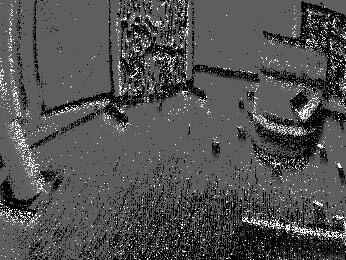
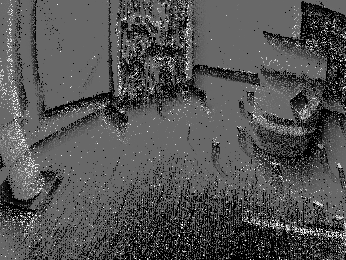
refresh backup slides with post pre-defense figures

diff --git a/backup.tex b/backup.tex
@@ -1369,27 +1369,27 @@ For a unit vector $\mathbf e$: if $\mathbf e\cdot\vct^*\le M$ on $\Gamma$, test 
 \begin{frame}{What can changes tell us about a scene?}
 \begin{columns}[T]
 \column{.30\textwidth}
-\centering\includegraphics[width=\linewidth,height=2.6cm,keepaspectratio]{figures/mvsec_outdoor_day1/defense_matched/reference.png}\par\vspace{1mm}
+\centering\includegraphics[width=\linewidth,height=2.6cm,keepaspectratio]{figures/mvsec_outdoor_day1/backup_p1/reference.png}\par\vspace{1mm}
 {\small\textbf{Reference image}}
 \column{.30\textwidth}
-\centering\includegraphics[width=\linewidth,height=2.6cm,keepaspectratio]{figures/mvsec_outdoor_day1/defense_matched/events_accumulation_orange_positive.png}\par\vspace{1mm}
+\centering\includegraphics[width=\linewidth,height=2.6cm,keepaspectratio]{figures/mvsec_outdoor_day1/backup_p1/events_accumulation_orange_positive.png}\par\vspace{1mm}
 {\small\textbf{Accumulated events}}\par
-% source: figures/mvsec_outdoor_day1/defense_matched/metadata.json, display_event_window_duration_s and accumulation_rule.
+% source: figures/mvsec_outdoor_day1/backup_p1/metadata.json, event_panel (50 ms window ending at the frame time; color rule).
 {\scriptsize $50$\,ms sample}\par
 {\scriptsize\textcolor[RGB]{204,76,31}{Orange $+$}; \textcolor[RGB]{0,118,160}{blue $-$}; \textcolor[RGB]{119,70,151}{purple: both}.}
 \column{.035\textwidth}
 \vspace{1.1cm}\centering\textcolor{teal}{$\rightarrow$}
 \column{.30\textwidth}
-\centering\includegraphics[width=\linewidth,height=2.6cm,keepaspectratio]{figures/mvsec_outdoor_day1/defense_matched/reconstruction.png}\par\vspace{1mm}
+\centering\includegraphics[width=\linewidth,height=2.6cm,keepaspectratio]{figures/mvsec_outdoor_day1/backup_p1/reconstruction.png}\par\vspace{1mm}
 {\small\textbf{Our reconstruction}}
 \end{columns}
 \vspace{3mm}
 {\large What do the observations determine, and what does the model supply?\par}
 \takeaway{The observations constrain changes; the model supplies the remaining choices.}
-% source detail: Ch. 2 saved outdoor_day1 release; reference.png, events_accumulation_orange_positive.png, and reconstruction.png under figures/mvsec_outdoor_day1/defense_matched/.
-% source: figures/mvsec_outdoor_day1/defense_matched/metadata.json, exact timing, raw-left geometry, normalization, and hashes.
+% source detail: Ch. 2 configuration P1 (Gaussian 5 ms, sigmoid), /scratch/dblauvel/ch2_recompute_20261103_p60/P1_gaussian_sigmoid_sqrt_0.03_n100/outdoor_day1, latent frame 29 of 100; exporter monocular_reconstruction/artifacts/defense_figures_20261108/export_backups.py.
+% source: figures/mvsec_outdoor_day1/backup_p1/metadata.json, exact timing, raw-left geometry, normalization, and hashes.
 \src{\dref{Chapter}{ch:monocular_reconstruction}, saved MVSEC~\cite{MVSEC2018} outdoor\_day1 reconstruction example.}
-\talknote{Motivation; about 60 seconds.}{Left is a conventional reference image of the outdoor scene. Center is a 50 ms sample of the event measurements used by the reconstruction: orange marks positive-only pixels, blue negative-only pixels, and purple pixels with both polarities. Right is our event-derived reconstruction, using a longer observation interval. The arrow represents events feeding the estimator; the reference supplies visual context. Events determine temporal changes, and the model selects a brightness baseline and how to balance observations with regularization.}{All panels use the raw left DAVIS geometry, $346\times260$ pixels. The 50 ms display interval ends at reconstruction time 1506118045.9162312 s and contains 23,780 events. The nearest reference is 4.672 ms later. Reconstruction uses the full 500,000-event input spanning about 0.846 s; the center panel displays a subset of that input. Event color strength is logarithmic in count and saturates at four events per pixel. The reference uses a sequence-wide min/max mapping; reconstruction uses one affine mapping across its 20-frame sequence, then clips to $[0,1]$. This displays a latent event-derived state. The dissertation asks what observations determine, what penalties select, and what guarantees survive spatial or binocular coupling.}
+\talknote{Motivation; about 60 seconds.}{Left is a conventional reference image of the outdoor scene. Center is a 50 ms sample of the event measurements used by the reconstruction: orange marks positive-only pixels, blue negative-only pixels, and purple pixels with both polarities. Right is our event-derived reconstruction with the selected Chapter 2 configuration, using a longer observation interval. The arrow represents events feeding the estimator; the reference supplies visual context. Events determine temporal changes, and the model selects a brightness baseline and how to balance observations with regularization.}{All panels use the raw left DAVIS geometry, $346\times260$ pixels. The 50 ms display interval ends at reconstruction time 1506118049.4719 s and contains 23,742 events. The reference is the nearest camera frame, 6.4 ms later. Reconstruction uses the full 500,000-event input spanning about 0.95 s; the center panel displays a subset of that input. Event color strength is logarithmic in count and saturates at four events per pixel. The reference is the saved 8-bit frame, unchanged; the reconstruction uses one affine mapping across its 100-frame sequence, background to mid-gray, then clips to $[0,1]$. This displays a latent event-derived state. The dissertation asks what observations determine, what penalties select, and what guarantees survive spatial or binocular coupling.}
 \end{frame}
 
 \begin{frame}{Where this work fits}
@@ -1486,9 +1486,9 @@ Quiet intervals get the largest weights and set the reference level; busy interv
 \begin{columns}[c]
 \column{.55\textwidth}
 \small MVSEC~\cite{MVSEC2018} indoor flying 2\par\medskip
-% source: source_reconstruction_h5: /scratch/dblauvel/ch2_mvsec_release_20261018/indoor_flying2_bump_05/reconstruction.h5, source_reference_npz: /scratch/dblauvel/ch2_mvsec_release_20261018/reference/indoor_flying2.npz
-\panel{.48}{figures/reconstruction_evaluation/reference.png}{Reference}
-\hfill\panel{.48}{figures/reconstruction_evaluation/event_only_reconstruction.png}{Event-only reconstruction}
+% source: /scratch/dblauvel/ch2_recompute_20261103_p60/P1_gaussian_sigmoid_sqrt_0.03_n100/indoor_flying2/lambda_comparison/{lambda_comparison_results.mat (reconstructions_raw, sigmoid), ground_truth_aligned/aligned_frames.mat}, latent frame 21; exporter monocular_reconstruction/artifacts/defense_figures_20261108/export_backups.py.
+\panel{.48}{figures/reconstruction_evaluation_p1/reference.png}{Reference}
+\hfill\panel{.48}{figures/reconstruction_evaluation_p1/reconstruction.png}{Event-only reconstruction}
 \column{.42\textwidth}
 \small MVSEC indoor aggregate results\par\medskip
 \begin{tabular}{lrr}\toprule Kernel & PSNR & CN\\\midrule
@@ -1502,10 +1502,10 @@ Gaussian & 8.68 & 259.79\\\bottomrule
 {\scriptsize PSNR compares with a reference frame, so it also scores the absolute brightness that the model selects; the events constrain only changes.\par}
 \end{columns}
 \takeaway{Kernel and adaptive-weight choices affect both the reconstruction and the solved system.}
-% source detail: Ch. 2, tab:bump\_avg\_indoor; images from figures/reconstruction\_evaluation/metadata.json (indoor\_flying2, solved frame 81 of 100).
+% source detail: Ch. 2, tab:bump\_avg\_indoor; images from figures/reconstruction\_evaluation\_p1/metadata.json (indoor\_flying2, configuration P1, latent frame 21 of 100).
 \src{\dref{Table}{tab:bump_avg_indoor}; images: MVSEC indoor flying 2, Ch.~2.}
-% source: Ch. 2 tab:bump_avg_indoor; figures/reconstruction_evaluation/metadata.json, indoor_flying2_bump_05, nearest saved camera frame.
-\talknote{Temporal results; 60 seconds.}{The pictures show a representative indoor flying 2 reference and event-only reconstruction with sigmoid weights. The table aggregates the indoor kernel comparison. PSNR measures reference-image similarity; a higher value means closer agreement. CN measures conditioning; a lower value indicates better conditioning. B-spline and Gaussian give the highest PSNR, about 0.2 dB above Delta, and the three kernels give similar condition numbers; the weight rule sets the conditioning. PSNR measures agreement with a reference frame, which includes the absolute brightness level; the events constrain changes, so reference fidelity and fidelity to the measured changes answer different questions.}{The reconstruction recovers scene structure, while the magnitude penalty selects the absolute baseline. The outdoor kernel comparison has a different ordering and appears in the backup. These results establish the observed tradeoff for the tested data and parameter choices. Display normalization is a visualization choice; the theorem's uniqueness and stability guarantees apply with the positive weights fixed.}
+% source: Ch. 2 tab:bump_avg_indoor; figures/reconstruction_evaluation_p1/metadata.json, ch2_recompute_20261103_p60 arm P1 sigmoid volume, time-aligned camera frame (4.6 ms later).
+\talknote{Temporal results; 60 seconds.}{The pictures show a representative indoor flying 2 reference and event-only reconstruction with the selected configuration, a 5 ms Gaussian kernel and sigmoid weights. The table aggregates the indoor kernel comparison. PSNR measures reference-image similarity; a higher value means closer agreement. CN measures conditioning; a lower value indicates better conditioning. B-spline and Gaussian give the highest PSNR, about 0.2 dB above Delta, and the three kernels give similar condition numbers; the weight rule sets the conditioning. PSNR measures agreement with a reference frame, which includes the absolute brightness level; the events constrain changes, so reference fidelity and fidelity to the measured changes answer different questions.}{The reconstruction recovers scene structure, while the magnitude penalty selects the absolute baseline. The outdoor kernel comparison has a different ordering and appears in the backup. These results establish the observed tradeoff for the tested data and parameter choices. Display normalization is a visualization choice; the theorem's uniqueness and stability guarantees apply with the positive weights fixed.}
 \end{frame}
 
 \begin{frame}{Derive the time-surface constraint by following the edge}

diff --git a/core.tex b/core.tex
@@ -139,7 +139,7 @@ For the ideal threshold model,
 % source detail: Saved HPC estimates; provenance, hashes, timestamps, display scales, and masks in figures/indoor_flying2_t47p6/metadata.json.
 \src{Methods: \dref{Chapter}{ch:monocular_reconstruction}, \dref{Chapter}{ch:optical_flow}, and \dref{Chapter}{ch:stereo_depth_estimation}; MVSEC~\cite{MVSEC2018}.}
 % source: figures/indoor_flying2_t47p6/metadata.json, timestamps, observation windows, display rules, and geometry.
-\talknote{Accessibility primer; 90 seconds. Introduce the three estimated outputs.}{Left: temporal image reconstruction; grayscale is the reconstructed value. Middle: optical-flow estimate, with color encoding direction and displacement magnitude at pixels that recorded events. Right: stereo depth; the two event cameras on a drone give the pair. All three show the same indoor flying 2 scene. Present the panels as the three estimation targets. Explain the brightness baseline, motion along an edge, and stereo correspondence.}{If asked which methods: Gaussian kernel ($\sigma=0.1$\,s) with sigmoid weights; contrast maximization, whose nonconvex objective lies outside the quadratic family analyzed later (existence result in backup); weighted least squares. Reconstruction: 47.690 s. Flow: 47.592--47.719 s; color magnitude represents displacement over this window. White flow pixels have zero events: the mask shows event support. WLS: center 47.598 s, 250 ms window. Different windows and stereo rectification permit scene-level comparison, with separate pixel geometries. Depth colors clip to 0.5--8 m; white masks nonfinite values and the maximum finite depth. Reconstruction grayscale uses a histogram/percentile scale. Exact timestamps, normalization, and provenance are in the adjacent metadata file.}
+\talknote{Accessibility primer; 90 seconds. Introduce the three estimated outputs.}{Left: temporal image reconstruction; grayscale is the reconstructed value. Middle: optical-flow estimate, with color encoding direction and displacement magnitude at pixels that recorded events. Right: stereo depth; the two event cameras on a drone give the pair. All three show the same indoor flying 2 scene. Present the panels as the three estimation targets. Explain the brightness baseline, motion along an edge, and stereo correspondence.}{If asked which methods: Gaussian kernel ($\sigma=5$\,ms) with sigmoid weights, the selected Chapter 2 configuration; contrast maximization, whose nonconvex objective lies outside the quadratic family analyzed later (existence result in backup); weighted least squares. Reconstruction: 47.703 s. Flow: 47.592--47.719 s; color magnitude represents displacement over this window. White flow pixels have zero events: the mask shows event support. WLS: center 47.598 s, 250 ms window. Different windows and stereo rectification permit scene-level comparison, with separate pixel geometries. Depth colors clip to 0.5--8 m; white masks nonfinite values and the maximum finite depth. Reconstruction grayscale uses a histogram/percentile scale. Exact timestamps, normalization, and provenance are in the adjacent metadata file.}
 \end{frame}
 
 \begin{frame}{Three estimators, each well posed}

diff --git a/defense-script.md b/defense-script.md
@@ -84,7 +84,7 @@ Each problem has its own difficulty. For reconstruction, the brightness baseline
 
 Here's what the talk shows for each of the three.
 
-*[If asked which methods produced these panels: a Gaussian temporal kernel (sigma 0.1 s), contrast maximization, and weighted least squares. Contrast maximization has a nonconvex objective outside the quadratic flow family analyzed later; its existence result is Backup 46, page 70. If asked about the spline-parameterized flow regularizer under refinement: Backup 68, page 92. If asked what the stereo method is, in one slide: Backup 48, page 72. If asked about the quality of MVSEC's ground truth: Backup 60, page 84, for depth; Backup 26, page 50, for flow.]*
+*[If asked which methods produced these panels: a Gaussian temporal kernel (sigma 5 ms) with sigmoid weights, the selected Chapter 2 configuration; contrast maximization, and weighted least squares. Contrast maximization has a nonconvex objective outside the quadratic flow family analyzed later; its existence result is Backup 46, page 70. If asked about the spline-parameterized flow regularizer under refinement: Backup 68, page 92. If asked what the stereo method is, in one slide: Backup 48, page 72. If asked about the quality of MVSEC's ground truth: Backup 60, page 84, for depth; Backup 26, page 50, for flow.]*
 
 ## Slide 7 — Three estimators, each well posed
 
@@ -1855,7 +1855,7 @@ Deck page: 100.
 
 *[Point to the images, then to the table.]*
 
-The pictures are a representative example from MVSEC indoor flying two, the dataset from slide 6: a reference image from the ordinary frames, and an event-only reconstruction with sigmoid weights. The table summarizes the kernel comparison over the indoor flying sequences.
+The pictures are a representative example from MVSEC indoor flying two, the dataset from slide 6: a reference image from the ordinary frames, and an event-only reconstruction with the selected configuration: a five-millisecond Gaussian kernel and sigmoid weights. The table summarizes the kernel comparison over the indoor flying sequences.
 
 The reconstruction makes the scene structure visible. The table reports two things: PSNR, which measures similarity to the reference image, and the condition number of the linear system. PSNR also scores the absolute brightness level, which the model selects, so it measures something different from agreement with the recorded changes.
 

diff --git a/LOG/2026-11-10.md b/LOG/2026-11-10.md
@@ -1,0 +1,8 @@
+# 2026-11-10
+
+Slide 6 and Backups 71 and 76 images to P1 (both were from the 2026-10-18 release run):
+- Backup 71: figures/mvsec_outdoor_day1/backup_p1/ (reference, 50 ms event panel, reconstruction), outdoor_day1 latent frame 29 of 100, ch2_recompute_20261103_p60 arm P1; reference 6.4 ms after the frame; 23,742 display events. Talk note numbers updated.
+- Backup 76: figures/reconstruction_evaluation_p1/ (reference, reconstruction), indoor_flying2 latent frame 21 (pixel r 0.29); note and script name the 5 ms Gaussian / sigmoid configuration.
+- Exporter: monocular_reconstruction/artifacts/defense_figures_20261108/export_backups.py (checks each aligned frame is the nearest APS frame).
+- Slide 6 (and slide 24 thumbnail): figures/indoor_flying2_t47p6/gaussian_reconstruction.png now P1, frame 1 of ch2_recompute_20261101 P1 n100 (first 500k events; the cache starts at 47.690 s; event-only settings identical to p60), frame time 47.703 s; no new solve needed. Talk note and script: sigma 5 ms, sigmoid, 47.703 s. metadata.json item updated (runner reference came from the short APS cache; not shown on the slide).
+- Not built (no TeX on this node); source-map.csv not regenerated (update_metadata.py stops on stale thesis refs). Old figure folders defense_matched/ and reconstruction_evaluation/ are now unused by the deck. Uncommitted.
